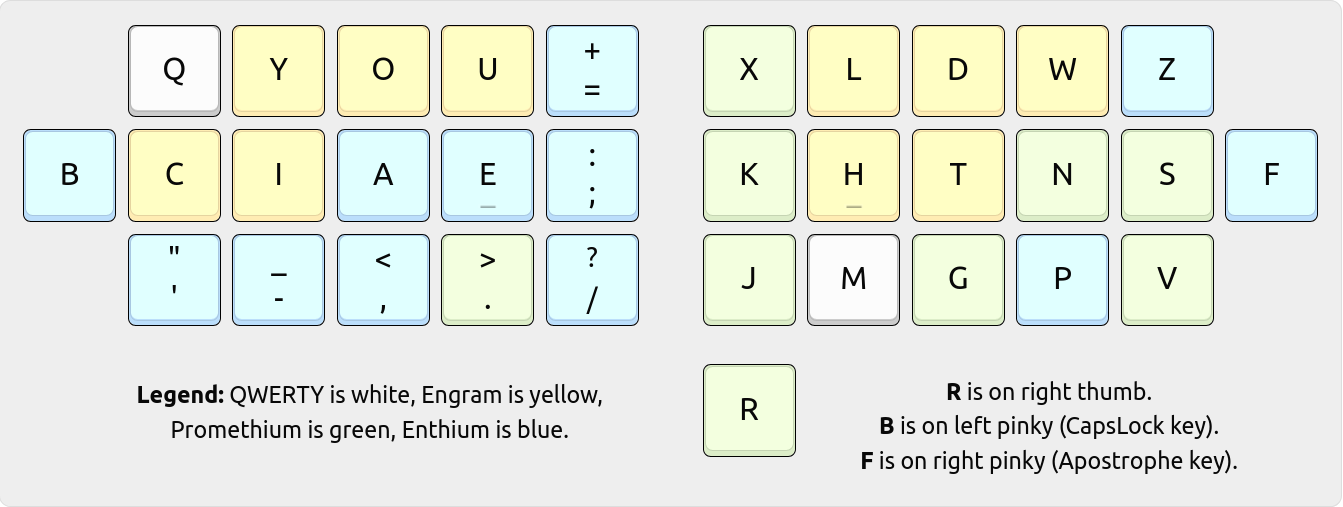
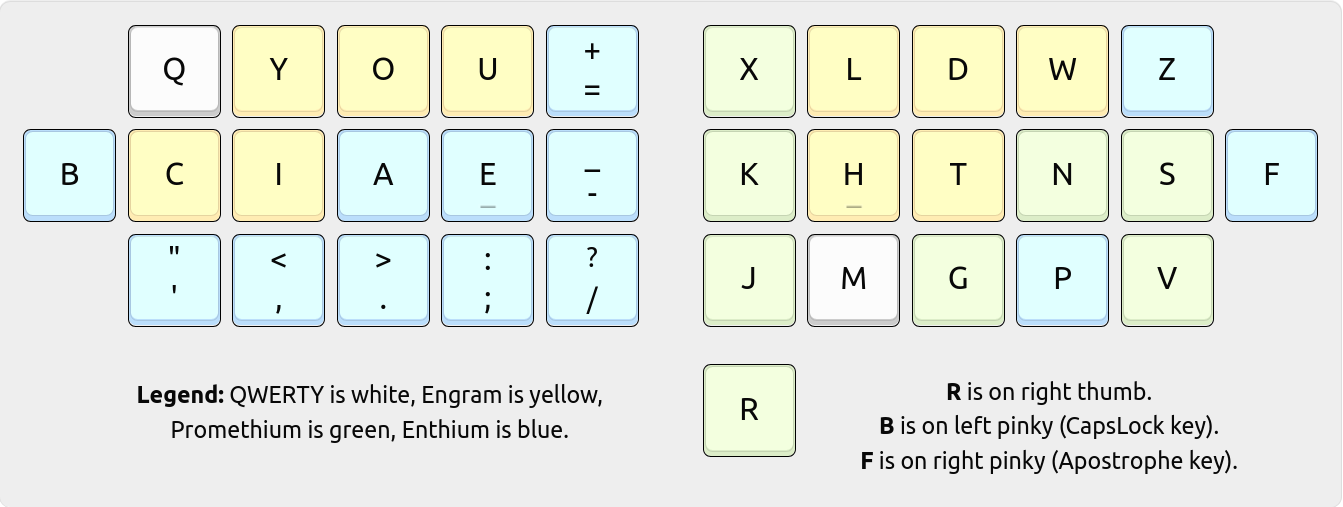
Enthium v12k candidate: avoid `E.` SFB; Dvorak ',.
Thanks to ~Mitsec on Discord for suggesting the `E.` SFB avoidance:
https://discord.com/channels/807843650717483049/807843651304161342/1444420280108974111

diff --git a/README.md b/README.md
@@ -9,8 +9,8 @@ while optimizing punctuation placement for programming in the spirit of Engramme
 featuring HJKL and `,;` for Vim, `-=` for zooming, and `./` for filesystem paths.
 
       q y o u = x l d w z
-    b c i a e ; k h t n s f
-      ' - , . / j m g p v
+    b c i a e - k h t n s f
+      ' , . ; / j m g p v
                 r
 
 ![Heatmap of this layout by Valorance, adapted from Oxeylyzer.](heatmap.png)
@@ -39,15 +39,17 @@ featuring HJKL and `,;` for Vim, `-=` for zooming, and `./` for filesystem paths
 * Apostrophe is away (on a different finger entirely) from YOU and I so that
   it can be typed without same-finger bigrams like You'd, I'd, He'd, They'd.
 
-* Comma, period, slash, and semicolon are arranged relatively to QWERTY for
-  ease of adaptation, especially for navigation and application shortcuts.
+* Minus and equals are clustered for intuitive zooming in/out with Ctrl.
 
-* Period and slash are clustered for `./` `../` relative filesystem paths
-  and easy access to forward slash and question mark for Vim text search.
+* Comma, period, and slash are arranged relatively to QWERTY for ease of
+  adaptation, especially for navigation and custom application shortcuts.
 
 * Comma and semicolon are associated for cycling f/F/t/T searches in Vim.
 
-* Minus and equals are associated for intuitive zooming in/out with Ctrl.
+* Period and slash are associated for `./` `../` relative filesystem paths
+  and easy access to forward slash and question mark for Vim text search.
+
+* Apostrophe, comma, and period appear in the same sequence as in Dvorak.
 
 * See [my blog post] for a deeper look into the design process of Enthium.
 
@@ -58,35 +60,37 @@ featuring HJKL and `,;` for Vim, `-=` for zooming, and `./` for filesystem paths
 
 The [keyboard layout community][rKL] commonly recommends [Pascal Getreuer's
 guide][PGr] and ranking tables as a starting point for layout exploration,
-and you'll see that Enthium is statistically among the best layouts there.
+and Enthium ranks among the top-performing layouts there as of 2025-09-13.
 
 Comparing with [conventional layout rankings][PGl]:
 
-* 0.05% LSBs — wins 🥇 first place; beats the entire table!
-* 0.60% SFBs — fourth place; after Focal, Recurva, Semimak
-* 1.48% redirects — wins 🥇 first place; beats the entire table!
-* 0.17% scissors — fifth place; after Dvorak, APTv3, ColemakDH, MTGAP
-* 45.77% rolls — beats Semimak, Gallium, Engram, HandsDownNeu, Halmak, Dvorak
+* 0.07% LSBs — first 🥇 place; beats the entire table!
+* 0.54% SFBs — second 🥈 place; only surpassed by Focal
+* 1.49% redirects — first 🥇 place; beats the entire table!
+* 0.16% scissors — fifth place; after Dvorak, APTv3, MTGAP, Colemak-DH
+* 45.87% rolls — beats Semimak, Gallium, Engram, HandsDownNeu, Halmak, Dvorak
 * 3.22% pinky off — beats APTv3, Semimak, MTGAP, Dvorak, Recurva, Halmak, Engram
 
 Comparing with [thumb-letter layout rankings][PGt]:
 
-* 0.05% LSBs — wins 🥇 first place; beats the entire table!
-* 0.60% SFBs — fourth place; after Night, Vibranium, Promethium
-* 1.48% redirects — wins 🥉 third place; after Nordrassil, Vibranium
-* 0.17% scissors — fourth place; after RSTHD, Promethium, Maltron
-* 45.77% rolls — beats Promethium and Nordrassil
+* 0.07% LSBs — second 🥈 place; only surpassed by Caster
+* 0.54% SFBs — second 🥈 place; only surpassed by Night
+* 1.49% redirects — third 🥉 place; after Nordrassil, Vibranium
+* 0.16% scissors — fourth place; after RSTHD, Promethium, Maltron
+* 45.87% rolls — fifth place; beats Night, Promethium, Nordrassil
 * 3.22% pinky off — fourth place; after RSTHD, Nordrassil, Night
 
-Enthium's SFBs can be neutralized by raking them down vertically:
+Some SFBs in Enthium can be _raked_ vertically across adjacent rows,
+allowing the same finger to slide over both keys in a single motion:
 
-* 0.60% total SFBs - 0.40% rakeable SFBs = **0.20% _effective_ SFBs**
-  - `e.` (0.14%)
+* 0.54% total SFBs - 0.29% rakeable SFBs = **0.25% _effective_ SFBs**
   - `ue` (0.08%)
   - `wn` (0.06%)
   - `oa` (0.05%)
   - `yi` (0.03%)
-  - `a,` (0.02%)
+  - `a.` (0.02%)
+  - `lk` (0.02%)
+  - `e;` (0.01%)
   - `np` (0.01%)
   - `hm` (0.01%)
 
@@ -94,7 +98,7 @@ These results were [computed with Cyanophage's Layout Analyzer][cNM] as follows.
 
 [![Statistics for Enthium from Cyanophage's Layout Analyzer](cyanophage.png)][cNM]
 
-[cNM]: https://cyanophage.github.io/playground.html?layout=qyou%3Dxldwz%5Cciae%3Bkhtnsf%27-%2C.%2Fjmgpv*rb&mode=ergo&lan=english&thumb=r
+[cNM]: https://cyanophage.github.io/playground.html?layout=qyou%3Dxldwz%5Cciae-khtnsf%27%2C.%3B%2Fjmgpv*rb&mode=ergo&lan=english&thumb=r
 [cPM]: https://cyanophage.github.io/playground.html?layout=fpdlx%3Buoybzsnthk%2Caeicqvwgmj-.%27%3D%2F%5Cr&mode=ergo&lan=english&thumb=l
 [cNG]: https://cyanophage.github.io/playground.html?layout=byou%27%3Bldwvzciea%2C.htsnqgxjk-%2Frmfp%5C%5E&mode=ergo&lan=english&thumb=l
 [cDV]: https://cyanophage.github.io/playground.html?layout=%27%2C.pyfgcrl%2Faoeuidhtns-%3Bqjkxbmwvz%5C%5E&mode=ergo&lan=english&thumb=l
@@ -104,20 +108,20 @@ These results were [computed with Cyanophage's Layout Analyzer][cNM] as follows.
 | Category  | Statistic           | *[Enthium][cNM]* | [Promethium][cPM] | [Engrammer][cNG] | [Dvorak][cDV] | [Colemak-DH][cCD] | [QWERTY][cQW] |
 | --------- | ------------------- | ---------------- | ----------------- | ---------------- | ------------- | ----------------- | ------------- |
 | Summary   | Total Word Effort   | *736.7*          | 732.1             | 899.5            | 1185.5        | 1047.9            | 2070.6        |
-| Summary   | Effort              | *415.54*         | 398.09            | 457.41           | 769.69        | 534.99            | 1258.15       |
-| Bigrams   | Same Finger Bigrams | *0.60%*          | 0.58%             | 0.99%            | 1.87%         | 0.91%             | 4.38%         |
-| Bigrams   | Skip Bigrams (2u)   | *0.36%*          | 0.36%             | 0.39%            | 0.45%         | 0.49%             | 1.43%         |
-| Bigrams   | Lat Stretch Bigrams | *0.05%*          | 0.24%             | 0.41%            | 0.80%         | 1.27%             | 4.55%         |
-| Bigrams   | Scissors            | *0.17%*          | 0.11%             | 0.36%            | 0.08%         | 0.15%             | 1.46%         |
-| Trigrams  | Alt                 | *37.82%*         | 36.98%            | 35.62%           | 39.08%        | 25.43%            | 21.38%        |
-| Trigrams  | Alt SFS             | *4.72%*          | 5.27%             | 5.93%            | 5.85%         | 5.47%             | 5.42%         |
-| Trigrams  | Roll in             | *1.56%*          | 1.72%             | 1.82%            | 0.28%         | 1.50%             | 1.32%         |
-| Trigrams  | Roll out            | *0.39%*          | 0.29%             | 0.29%            | 0.27%         | 0.98%             | 1.48%         |
-| Trigrams  | Bigram roll in      | *26.99%*         | 29.17%            | 28.14%           | 23.51%        | 25.18%            | 20.38%        |
-| Trigrams  | Bigram roll out     | *16.83%*         | 14.56%            | 14.03%           | 15.14%        | 21.54%            | 17.58%        |
-| Trigrams  | Redirect            | *1.48%*          | 1.53%             | 2.26%            | 1.55%         | 5.33%             | 6.22%         |
-| Trigrams  | Weak redirect       | *0.81%*          | 0.87%             | 0.74%            | 0.64%         | 1.09%             | 0.44%         |
-| Trigrams  | Other               | *9.39%*          | 9.61%             | 11.17%           | 13.68%        | 13.49%            | 25.78%        |
+| Summary   | Effort              | *420.83*         | 398.09            | 457.41           | 769.69        | 534.99            | 1258.15       |
+| Bigrams   | Same Finger Bigrams | *0.54%*          | 0.58%             | 0.99%            | 1.87%         | 0.91%             | 4.38%         |
+| Bigrams   | Skip Bigrams (2u)   | *0.35%*          | 0.36%             | 0.39%            | 0.45%         | 0.49%             | 1.43%         |
+| Bigrams   | Lat Stretch Bigrams | *0.07%*          | 0.24%             | 0.41%            | 0.80%         | 1.27%             | 4.55%         |
+| Bigrams   | Scissors            | *0.16%*          | 0.11%             | 0.36%            | 0.08%         | 0.15%             | 1.46%         |
+| Trigrams  | Alt                 | *38.04%*         | 36.98%            | 35.62%           | 39.08%        | 25.43%            | 21.38%        |
+| Trigrams  | Alt SFS             | *4.51%*          | 5.27%             | 5.93%            | 5.85%         | 5.47%             | 5.42%         |
+| Trigrams  | Roll in             | *1.54%*          | 1.72%             | 1.82%            | 0.28%         | 1.50%             | 1.32%         |
+| Trigrams  | Roll out            | *0.40%*          | 0.29%             | 0.29%            | 0.27%         | 0.98%             | 1.48%         |
+| Trigrams  | Bigram roll in      | *26.85%*         | 29.17%            | 28.14%           | 23.51%        | 25.18%            | 20.38%        |
+| Trigrams  | Bigram roll out     | *17.08%*         | 14.56%            | 14.03%           | 15.14%        | 21.54%            | 17.58%        |
+| Trigrams  | Redirect            | *1.49%*          | 1.53%             | 2.26%            | 1.55%         | 5.33%             | 6.22%         |
+| Trigrams  | Weak redirect       | *0.80%*          | 0.87%             | 0.74%            | 0.64%         | 1.09%             | 0.44%         |
+| Trigrams  | Other               | *9.30%*          | 9.61%             | 11.17%           | 13.68%        | 13.49%            | 25.78%        |
 | Computed  | Pinky off           | *3.22%*          | 4.08%             | 5.70%            | 4.13%         | 0.78%             | 2.47%         |
 
 [rKL]: https://www.reddit.com/r/KeyboardLayouts/
